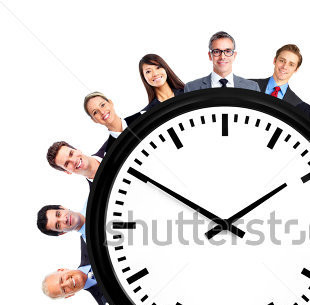
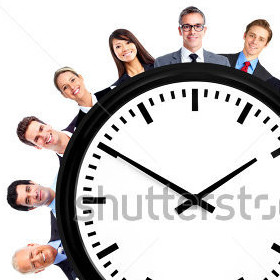
Remove more information, and Add more spacing in layout

diff --git a/index.html b/index.html
@@ -9,8 +9,8 @@
 	<meta http-equiv="content-type" content="text/html; charset=utf-8"/>
 	<meta name="description" content=""/>
 	<meta name="keywords" content=""/>
-	<meta name="robots" CONTENT="noindex, nofollow"><!-- A retirer !-->
-	<!--[if lte IE 8]>
+	<meta name="robots" CONTENT="noindex, nofollow">
+	<!-- A retirer !-->	<!--[if lte IE 8]>
 	<script src="css/ie/html5shiv.js"></script><![endif]-->
 	<script src="js/jquery.min.js"></script>
 	<script src="js/jquery.dropotron.min.js"></script>
@@ -54,19 +54,11 @@
 								<strong>essayez-le</strong>, c'est <strong>gratuit</strong> !</p>-->
 						</div>
 					</div>
-					<div class="row">
-						<div class="8u">
-							<ul>
-								<li>
-									<a href="#footer-wrapper" class="button big icon fa-arrow-circle-right">Ça m'intéresse !</a>
-								<li>
-									<a href="#features-wrapper" class="button alt big icon fa-question-circle">Plus d'informations ...</a>
-							</ul>
-						</div>
-						<div class="4u">
-
-						</div>
-					</div>
+				</div>
+			</div>
+			<div class="row">
+				<div class="9u" id="#cta-container">
+					<a href="#footer-wrapper" class="button big icon fa-arrow-circle-right">Inscrivez-vous maintenant !</a>
 				</div>
 			</div>
 		</div>
@@ -159,9 +151,11 @@
 								</div>
 							</div>
 							<div class="row no-collapse half">
-								<div class="6u"><a href="#" class="image fit"><img src="images/industry.jpg" alt=""/></a>
+								<div class="6u">
+									<a href="#" class="image fit"><img src="images/industry.jpg" alt=""/></a>
 								</div>
-								<div class="6u"><a href="#" class="image fit"><img src="images/warehouse.jpg" alt=""/></a>
+								<div class="6u">
+									<a href="#" class="image fit"><img src="images/warehouse.jpg" alt=""/></a>
 								</div>
 							</div>
 						</div>
@@ -175,7 +169,7 @@
 				<!-- Content -->
 				<div id="content">
 					<section class="last">
-						<h2>Mais, comment ça marche exactement ?</h2>
+						<h2>Comment ça marche exactement ?</h2>
 
 						<p><strong>Pragmasphere Planning</strong> est une
 							<strong>application SaaS</strong>. Cela signifie que vous n'avez
@@ -227,6 +221,7 @@
 								<input type="email" value="" name="EMAIL" placeholder="Votre adresse email" class="required email" id="mce-EMAIL">
 							</div>
 							<p>Nous ne communiquerons votre adresse email à personne, promis !</p>
+
 							<div id="mce-responses" class="clear">
 								<div class="response" id="mce-error-response" style="display:none"></div>
 								<div class="response" id="mce-success-response" style="display:none"></div>
@@ -244,8 +239,15 @@
 					</div>
 					<script type='text/javascript' src='//s3.amazonaws.com/downloads.mailchimp.com/js/mc-validate.js'></script>
 					<script type='text/javascript'>
-						(function($) {
-							window.fnames = new Array(); window.ftypes = new Array();fnames[0]='EMAIL';ftypes[0]='email';fnames[1]='FNAME';ftypes[1]='text';fnames[2]='LNAME';ftypes[2]='text';
+						(function ($) {
+							window.fnames = new Array();
+							window.ftypes = new Array();
+							fnames[0] = 'EMAIL';
+							ftypes[0] = 'email';
+							fnames[1] = 'FNAME';
+							ftypes[1] = 'text';
+							fnames[2] = 'LNAME';
+							ftypes[2] = 'text';
 							/*
 							 * Translated default messages for the $ validation plugin.
 							 * Locale: FR

diff --git a/css/style-1000px.css b/css/style-1000px.css
@@ -44,8 +44,8 @@ input[type="button"].big,
 input[type="submit"].big,
 input[type="reset"].big,
 .button.big {
-	font-size: 1.75em;
-	padding: 0.85em 1em 0.85em 1em;
+	font-size: 2.5em;
+	padding: 1em 1em 1em 1em;
 }
 
 /*********************************************************************************/
@@ -94,18 +94,15 @@ input[type="reset"].big,
 /* Banner                                                                        */
 /*********************************************************************************/
 
-#banner {
-	padding: 4em;
-}
-
 #banner h1 {
 	font-size: 3em;
-	margin: 0.2em 0 0.5em 0;
+	line-height: 1em;
+	margin: 0.1em 0 0.7em 0;
 }
 
 #banner h2 {
-	font-size: 1.5em;
-	margin: 0.2em 0 1em 0;
+	font-size: 2.5em;
+	margin: 0.5em 0 0.75em 0;
 }
 
 #banner p {
@@ -123,6 +120,10 @@ input[type="reset"].big,
 /*********************************************************************************/
 /* Custom                                                                        */
 /*********************************************************************************/
+.box#banner {
+	background-size: 250px 250px;
+}
+
 .img-boring {
 	width: 200px;
 }

diff --git a/css/style-desktop.css b/css/style-desktop.css
@@ -37,8 +37,8 @@ input[type="button"].big,
 input[type="submit"].big,
 input[type="reset"].big,
 .button.big {
-	font-size: 2.25em;
-	padding: 0.8em 0.9em;
+	font-size: 3em;
+	padding: 1em 1em;
 }
 
 .button.icon {
@@ -271,22 +271,23 @@ input[type="reset"].big,
 
 #banner {
 	padding: 1em, 2em, 4.5em, 2em;
-	margin: 1em, 0, 1em, 0;
+	margin: 1em, 1em, 1em, 1em;
 }
 
 #banner h1 {
 	font-size: 4.5em;
+	line-height: 1em;
 	margin: 0.1em 0 0.7em 0;
 }
 
 #banner h2 {
 	font-size: 2.5em;
-	margin: 0.1em 0 1em 0;
+	margin: 1em 0 1.5em 0;
 }
 
 #banner p {
 	font-size: 1.5em;
-	line-height: 1.20em;
+	line-height: 1.5em;
 	margin: 0 0 1em 0;
 }
 
@@ -305,7 +306,7 @@ input[type="reset"].big,
 	position: absolute;
 	right: 0.15em;
 	top: 50%;
-	margin-top: -0.5em;
+	margin-top: -0.3em;
 }
 
 #banner .button.alt {
@@ -338,6 +339,8 @@ input[type="reset"].big,
 	height: 2em;
 }
 
-.img-boring {
-	width: 280px;
+.box#banner {
+	background-image: url("../images/watch-people.jpg");
+	background-repeat: no-repeat;
+	background-position: right bottom;
 }

diff --git a/css/style.css b/css/style.css
@@ -583,10 +583,11 @@ ol.default li {
 /*********************************************************************************/
 /* Custom                                                                        */
 /*********************************************************************************/
-.box#banner {
-	background-image: url("../images/watch-people.jpg");
-	background-repeat: no-repeat;
-	background-position: right bottom;
+.img-boring {
+	border-radius: 20px;
+	border: 2px solid transparent;
+	box-shadow: 0px 3px 6px 0px rgba(0, 0, 0, 0.6);
+	max-width: 280px;
 }
 
 #mc_embed_signup {
